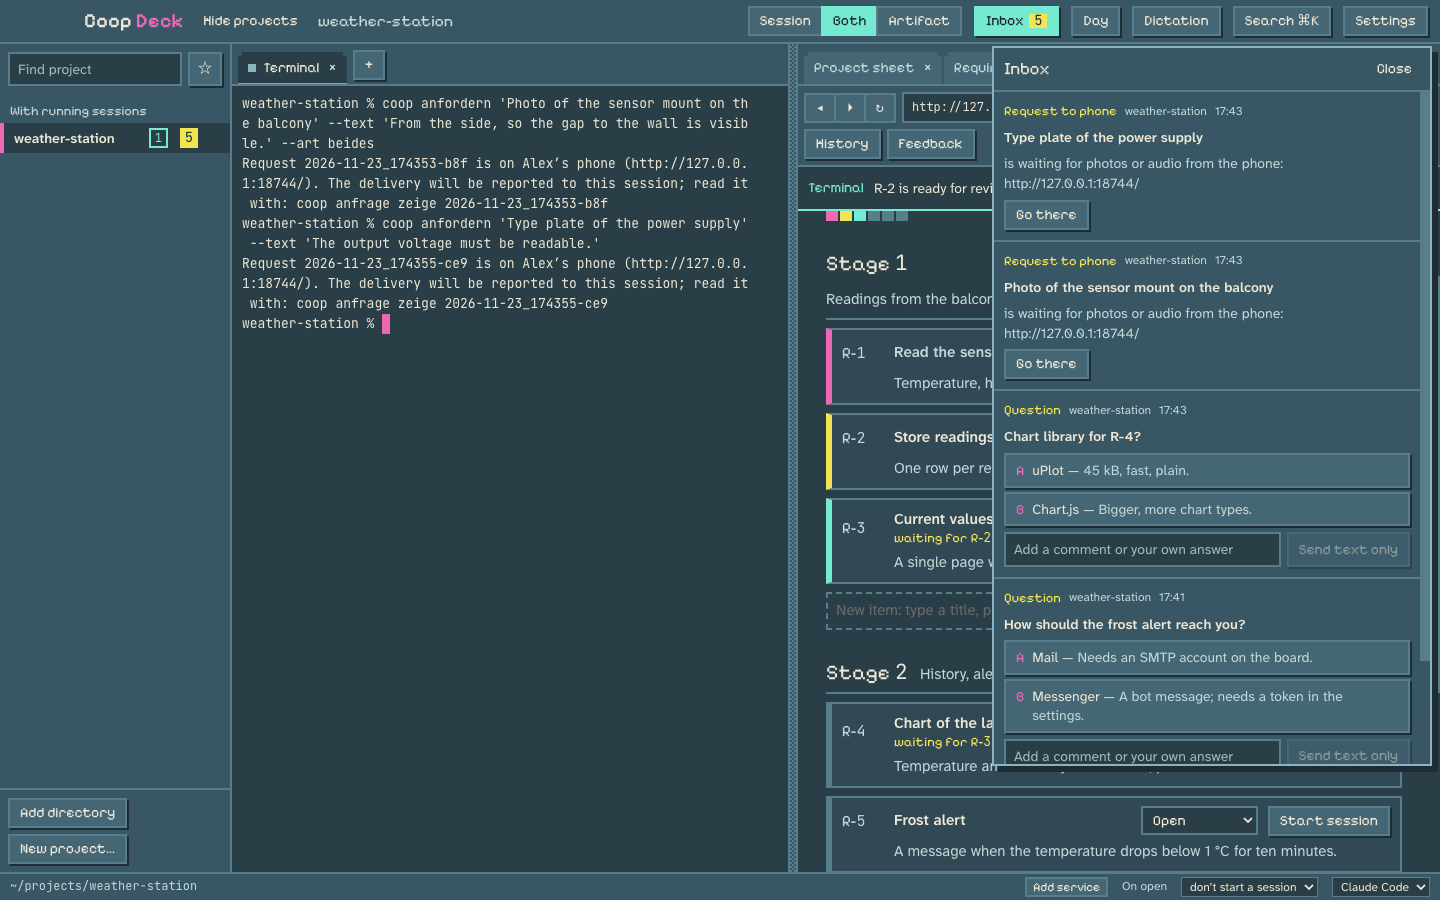
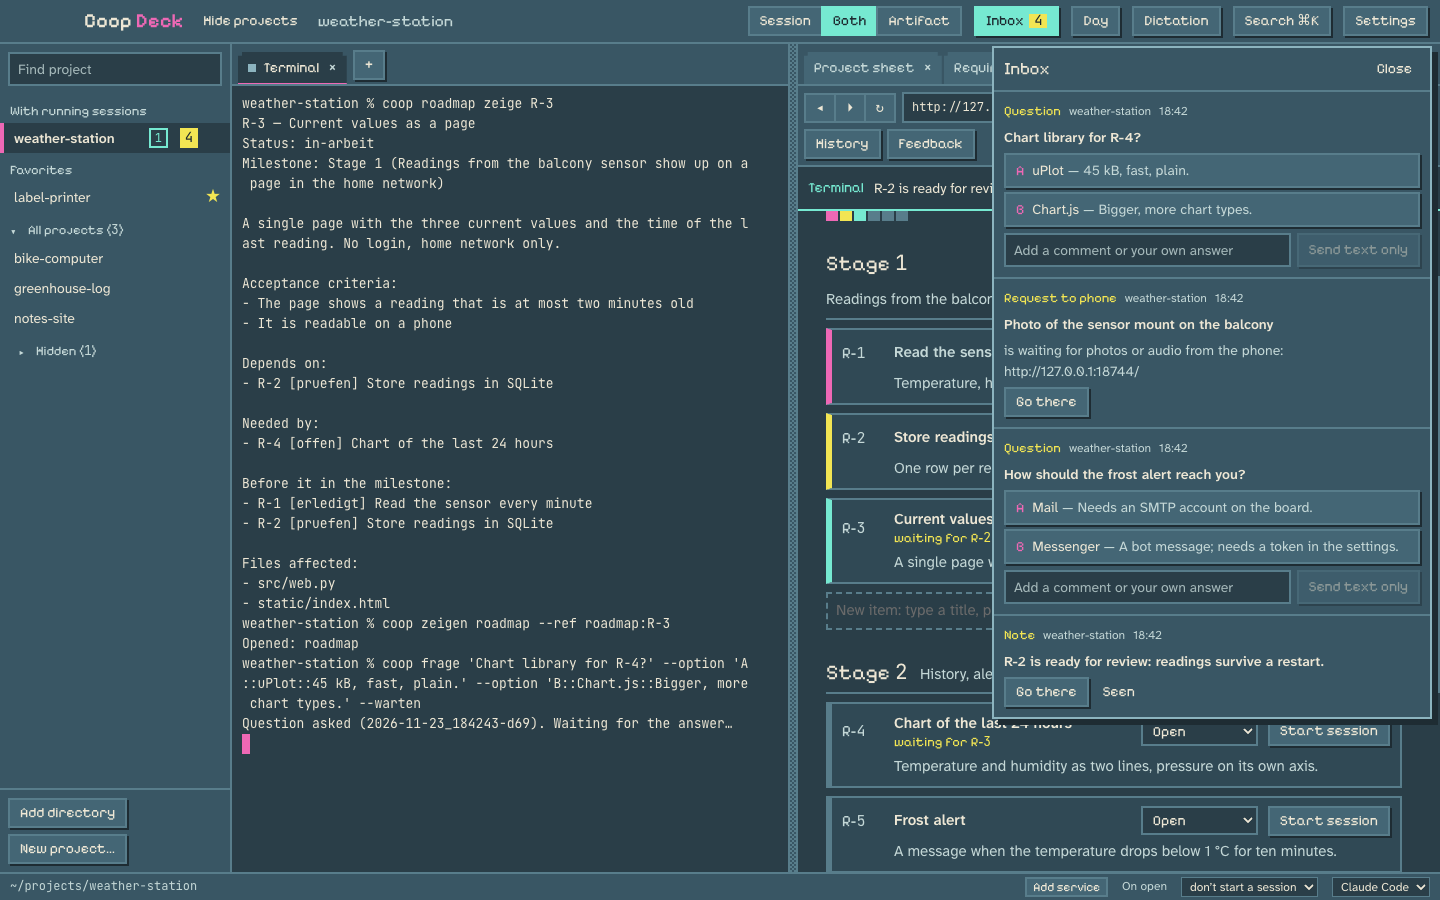
Screenshots show the current project list and the inbox on the phone

diff --git a/README.md b/README.md
@@ -20,7 +20,7 @@ The deck keeps these things as **artifacts**: readable files in the project unde
 
 | Inbox across projects | Page for the phone |
 |---|---|
-| ![Inbox with requests, questions and a note](docs/screenshot-inbox.png) | ![Requests for photos and audio on the phone](docs/screenshot-phone.png) |
+| ![Inbox with questions, a request to the phone and a note](docs/screenshot-inbox.png) | ![The inbox on the phone: questions with options, a note, a request for a photo](docs/screenshot-phone.png) |
 
 The screenshots show a demo project, with a plain terminal standing in for a CLI session.
 
